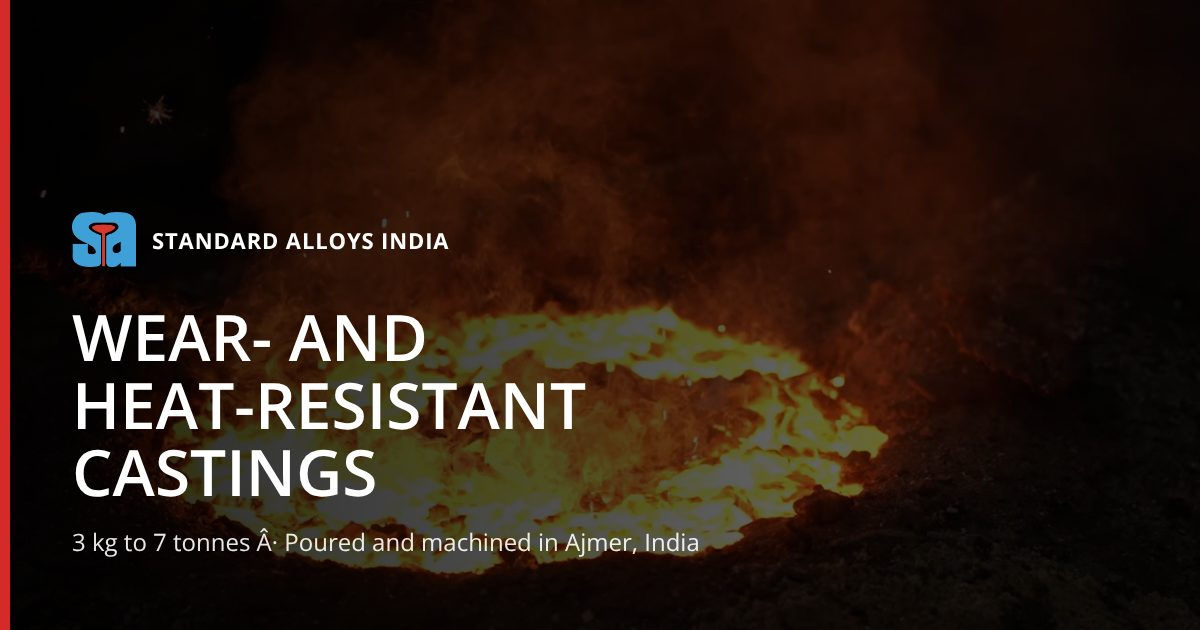
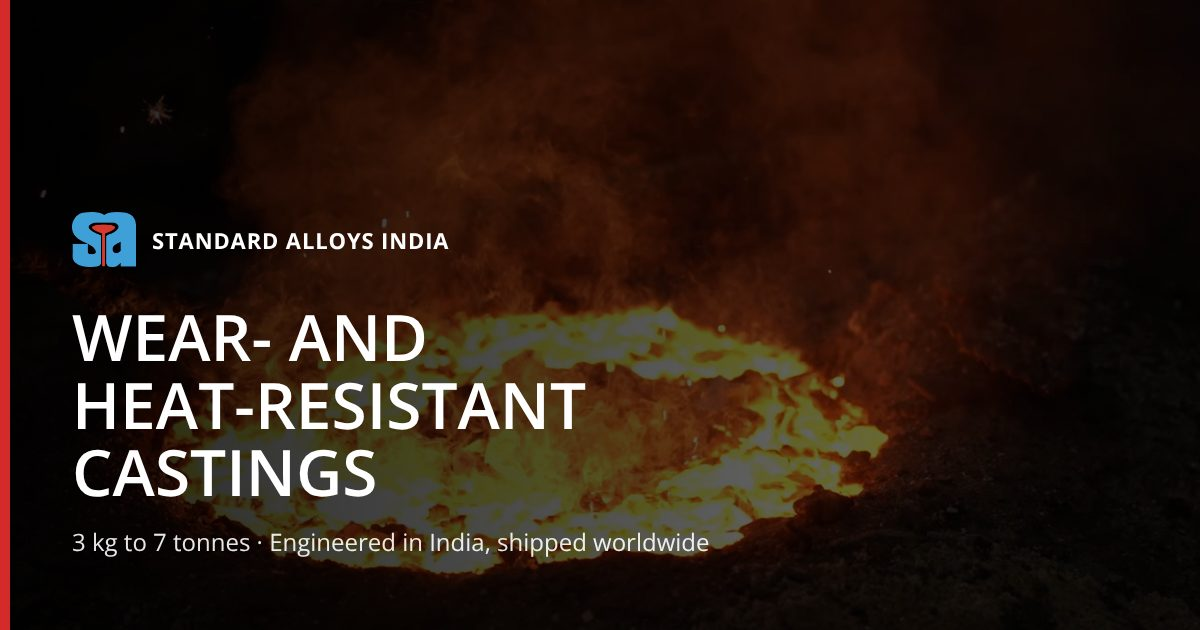
Global positioning: Ajmer kept to addresses and the founding story; India and worldwide elsewhere
Claude-Session: https://claude.ai/code/session_01Dpv3H5YAEdyyCRdrqzazAZ

Changed region(s): [[0.2158, 0.8444, 0.5858, 0.8746]]

diff --git a/standard-alloys/index.html b/standard-alloys/index.html
@@ -3,14 +3,14 @@
 <head>
 <meta charset="utf-8">
 <meta name="viewport" content="width=device-width, initial-scale=1">
-<title>Standard Alloys India · Wear- and heat-resistant castings, Ajmer</title>
-<meta name="description" content="Standard Alloys India: wear- and heat-resistant steel castings from 3 kg to 7 tonnes, poured and machined in Ajmer, India, and shipped to plants worldwide.">
+<title>Standard Alloys India · Wear- and heat-resistant steel castings</title>
+<meta name="description" content="Standard Alloys India: wear- and heat-resistant steel castings from 3 kg to 7 tonnes, engineered, cast and machined in India for plants worldwide.">
 <meta name="robots" content="noindex">
 <meta name="theme-color" content="#0d0d0e">
 <meta property="og:type" content="website">
 <meta property="og:site_name" content="Standard Alloys India">
-<meta property="og:title" content="Standard Alloys India · Wear- and heat-resistant castings, Ajmer">
-<meta property="og:description" content="Wear- and heat-resistant steel castings from 3 kg to 7 tonnes, poured and machined in Ajmer, India, and shipped to plants worldwide.">
+<meta property="og:title" content="Standard Alloys India · Wear- and heat-resistant steel castings">
+<meta property="og:description" content="Wear- and heat-resistant steel castings from 3 kg to 7 tonnes, engineered, cast and machined in India for plants worldwide.">
 <meta property="og:image" content="https://sorabbaheti-droid.github.io/sa-group-website/assets/og.jpg">
 <meta name="twitter:card" content="summary_large_image">
 <link rel="icon" href="../assets/favicon.png" type="image/png">
@@ -50,7 +50,7 @@
     <video src="../assets/media/quench.mp4" muted loop playsinline preload="none" aria-hidden="true"></video>
     <div class="say">
       <h1><span class="ln"><span>Wear- and heat-resistant castings</span></span><span class="ln sm"><span>for cement, mining, aggregate, steel and power</span></span></h1>
-      <p>Have a difficult casting problem? Send it to us, even without a drawing or a known grade. We engineer, cast, heat treat, machine and test it in Ajmer.</p>
+      <p>Have a difficult casting problem? Send it to us, even without a drawing or a known grade. We engineer, cast, heat treat, machine and test it, and ship it anywhere in the world.</p>
       <div class="hacts"><a class="btn" href="#quote">Get a quote</a><a class="btn ghost light" href="products/">Find your part</a></div>
     </div>
     <a class="down" href="#about" aria-label="Scroll to About"><svg viewBox="0 0 24 24" fill="none"><path d="M5 9l7 7 7-7" stroke="currentColor" stroke-width="2" stroke-linecap="round" stroke-linejoin="round"/></svg></a>
@@ -67,11 +67,11 @@
     <div class="wrap">
       <div class="narrow" data-r>
         <h2>Who we are</h2>
-        <p class="lit">Standard Alloys India began in 1991 as a fabrication shop in Ajmer and lit its first induction furnace in 1994. Today it is a specialist foundry for the parts that wear out first in cement, mining, aggregate, thermal power and steel plants, and for the equipment makers who build those machines.</p>
+        <p class="lit">Standard Alloys India began in 1991 as a fabrication shop in Rajasthan, India, and lit its first induction furnace in 1994. Today it is a specialist foundry for the parts that wear out first in cement, mining, aggregate, thermal power and steel plants, and for the equipment makers who build those machines.</p>
       </div>
       <div class="narrow" data-r>
         <h2>Up to seven tonnes in a single piece</h2>
-        <p class="lit">About 14,000 tonnes a year of installed capacity across our three facilities in Ajmer. Single castings run from 3 kg to 7,000 kg, with up to 10 tonnes of liquid metal in one pour.</p>
+        <p class="lit">About 14,000 tonnes a year of installed capacity across three foundry facilities. Single castings run from 3 kg to 7,000 kg, with up to 10 tonnes of liquid metal in one pour.</p>
       </div>
       <div class="narrow" data-r>
         <h2>In our own hands</h2>
@@ -96,7 +96,7 @@
       <figure><video src="../assets/media/ut.mp4" poster="../assets/media/ut.jpg" muted loop playsinline preload="none" aria-hidden="true" data-x="Ultrasonic testing"></video></figure>
     </div></div>
     <div class="wrap timeline">
-      <div data-r><b data-count="1991">1991</b><span>Starts as a fabrication shop in Ajmer</span></div>
+      <div data-r><b data-count="1991">1991</b><span>Starts as a fabrication shop in Rajasthan, India</span></div>
       <div data-r><b data-count="1994">1994</b><span>First induction furnace, the start of the foundry</span></div>
       <div data-r><b>Today</b><span>About 14,000 t a year of capacity, castings to 7 tonnes, shipped worldwide</span></div>
     </div>
@@ -105,7 +105,7 @@
 <!--why-->
 <section class="whysa" id="why" aria-labelledby="why-sa"><div class="wrap">
   <div class="sh" data-r><h2 id="why-sa">Why trust us with a critical casting</h2><p>Because the part, its grade and every step that decides its life are in one set of hands, and every heat is tested before it ships.</p></div>
-  <ul class="proof"><li data-r><b>35+ <small>years</small></b><span>Foundry experience in Ajmer, since 1991.</span></li><li data-r><b>~14,000 <small>t a year</small></b><span>Installed capacity across our three Ajmer facilities.</span></li><li data-r><b>3 kg–7 t</b><span>Single pieces, with up to 10 tonnes of metal in one pour.</span></li><li data-r><b>500+ <small>customers</small></b><span>Industrial customers in cement, mining, aggregate, power and steel.</span></li><li data-r><b>10,000+ <small>patterns</small></b><span>Already on file, so repeat orders start at moulding.</span></li><li data-r><b>End to end</b><span>Method, patterns, melting, moulding, heat treatment and machining in our own plants.</span></li><li data-r><b>UT · MPI · DPT</b><span>With spectrometer, microstructure, tensile, impact and hardness testing.</span></li><li data-r><b>Worldwide</b><span>Export packing, material certificates, dimensional and NDT reports.</span></li></ul>
+  <ul class="proof"><li data-r><b>35+ <small>years</small></b><span>Of foundry experience, since 1991.</span></li><li data-r><b>~14,000 <small>t a year</small></b><span>Installed capacity across three foundry facilities.</span></li><li data-r><b>3 kg–7 t</b><span>Single pieces, with up to 10 tonnes of metal in one pour.</span></li><li data-r><b>500+ <small>customers</small></b><span>Industrial customers in cement, mining, aggregate, power and steel.</span></li><li data-r><b>10,000+ <small>patterns</small></b><span>Already on file, so repeat orders start at moulding.</span></li><li data-r><b>End to end</b><span>Method, patterns, melting, moulding, heat treatment and machining in our own plants.</span></li><li data-r><b>UT · MPI · DPT</b><span>With spectrometer, microstructure, tensile, impact and hardness testing.</span></li><li data-r><b>Worldwide</b><span>Export packing, material certificates, dimensional and NDT reports.</span></li></ul>
 </div></section>
 <!--/why-->
 <!--chain-->
@@ -201,7 +201,7 @@
         <div><i><svg viewBox="0 0 24 24" fill="none" stroke="currentColor" stroke-width="1.6"><circle cx="12" cy="12" r="4"/><path d="M12 2v3M12 19v3M2 12h3M19 12h3M4.9 4.9l2.1 2.1M17 17l2.1 2.1M4.9 19.1L7 17M17 7l2.1-2.1"/></svg></i>630 kW rooftop solar</div>
       </div>
       <div class="factory">
-        <b>Ajmer factory</b>
+        <b>Works</b>
         <span>F-26B &amp; 27, Parbatpura Industrial Area, Ajmer 305002, Rajasthan, India</span>
         <span class="c"><a href="tel:+911452695110">+91 145 269 5110</a><a href="mailto:sales@standardalloysindia.com">sales@standardalloysindia.com</a></span>
       </div>
@@ -259,7 +259,7 @@
   <div class="wrap fgrid">
     <div class="fb">
       <a class="brand" href=""><img src="../assets/saipl-logo.png" alt="" width="34" height="30">STANDARD ALLOYS INDIA</a>
-      <p>Wear- and heat-resistant steel castings from 3 kg to 7 tonnes, poured and machined in Ajmer, India, and shipped worldwide.</p>
+      <p>Wear- and heat-resistant steel castings from 3 kg to 7 tonnes, engineered, cast and machined in India for plants worldwide.</p>
       <address>F-26B &amp; 27, Parbatpura Industrial Area<br>Ajmer 305002, Rajasthan, India</address>
       <p class="fc"><a href="tel:+911452695110">+91 145 269 5110</a><a href="mailto:sales@standardalloysindia.com">sales@standardalloysindia.com</a></p>
     </div>

diff --git a/standard-alloys/capabilities/index.html b/standard-alloys/capabilities/index.html
@@ -4,13 +4,13 @@
 <meta charset="utf-8">
 <meta name="viewport" content="width=device-width, initial-scale=1">
 <title>Capabilities · Standard Alloys India</title>
-<meta name="description" content="Engineering, pattern making, induction melting, no-bake moulding, heat treatment and machining in two foundry units in Ajmer.">
+<meta name="description" content="Engineering, pattern making, induction melting, no-bake moulding, heat treatment and machining, in our own plants.">
 <meta name="robots" content="noindex">
 <meta name="theme-color" content="#0d0d0e">
 <meta property="og:type" content="website">
 <meta property="og:site_name" content="Standard Alloys India">
 <meta property="og:title" content="Capabilities · Standard Alloys India">
-<meta property="og:description" content="Engineering, pattern making, induction melting, no-bake moulding, heat treatment and machining in two foundry units in Ajmer.">
+<meta property="og:description" content="Engineering, pattern making, induction melting, no-bake moulding, heat treatment and machining, in our own plants.">
 <meta property="og:image" content="https://sorabbaheti-droid.github.io/sa-group-website/assets/og.jpg">
 <meta name="twitter:card" content="summary_large_image">
 <link rel="icon" href="../../assets/favicon.png" type="image/png">
@@ -36,7 +36,7 @@
   <div class="in wrap">
     <p class="crumbs"><a href="../">Home</a> / Capabilities</p>
     <h1 id="h1"><span class="ln"><span>Everything that decides the life of a casting</span></span></h1>
-    <p>From the method to the machined part, in our own plants in Ajmer.</p>
+    <p>From the method to the machined part, in our own plants.</p>
   </div>
 </section><section class="mchain" aria-labelledby="mc-h"><div class="wrap">
   <div class="sh" data-r><h2 id="mc-h">One supplier. One manufacturing chain. One responsibility.</h2><p>From your problem to the finished part, every step that decides the life of a casting is ours to control, and ours to answer for.</p></div>
@@ -48,7 +48,7 @@
   <div class="capblocks"><article class="cblock" id="engineering" data-v="0"><span class="n">01</span><h2>Engineering and method</h2><p>Every new part starts with a method: gating, risering and feeding designed in-house, with casting simulation through a specialist partner for critical parts. Worn parts and samples are reverse-engineered when no drawing exists.</p><ul><li>Methoding and casting design</li><li>CAD and profile design</li><li>Reverse engineering from samples</li><li>Simulation with a specialist partner</li></ul></article><article class="cblock" id="patterns" data-v="1"><span class="n">02</span><h2>Pattern shop</h2><p>Patterns are made in-house in wood, polystyrene and aluminium, cut on a CNC router. More than 10,000 patterns are already on file, so repeat orders go straight to moulding.</p><ul><li>10,000+ patterns on file</li><li>Wood, polystyrene and aluminium</li><li>CNC router pattern making</li></ul></article><article class="cblock" id="melting" data-v="2"><span class="n">03</span><h2>Melting</h2><p>Induction melting in crucibles from 500 kg to 6 tonnes. A dual-track power supply brings up to 10 tonnes of liquid metal to a single pour, so heavy pieces are cast in one go.</p><ul><li>Crucibles of 500, 1,500, 3,000 and 6,000 kg</li><li>Up to 10 t liquid metal per pour</li><li>Spectrometer analysis on every heat</li></ul></article><article class="cblock" id="moulding" data-v="3"><span class="n">04</span><h2>Moulding</h2><p>Alphaset no-bake moulding gives strong, dimensionally stable moulds for pieces from 3 kg to 7,000 kg. Sand is mechanically reclaimed and reused.</p><ul><li>Alphaset mixers of 8 and 20 t/h</li><li>Mould pre-heater and shell core shooter</li><li>Sand reclamation of 6 and 12 t/h</li></ul></article><article class="cblock" id="heat-treatment" data-v="4"><span class="n">05</span><h2>Heat treatment</h2><p>Gas-fired box furnaces with water quench, and bogie-hearth furnaces with air and oil quench. Manganese steel goes from furnace to water in about 45 seconds.</p><ul><li>Two 10 t box furnaces, water quench</li><li>Two 12 t bogie-hearth furnaces, air and oil quench</li><li>Solution treatment, hardening and tempering</li></ul></article><article class="cblock" id="machining" data-v="5"><span class="n">06</span><h2>Fettling and machining</h2><p>Castings are fettled, proof-machined and finished to drawing on CNC and conventional vertical lathes, machining centres and a 6,500 mm special-purpose machine.</p><ul><li>Two CNC vertical lathes and a 1,350 mm VTL</li><li>Machining centres to 1,600 × 800 mm</li><li>Plano miller, lathes and radial drills</li></ul></article></div>
 </div></section>
 <section class="psec soft" aria-labelledby="u-h"><div class="wrap">
-  <div class="sh" data-r><h2 id="u-h">Standard Alloys India units</h2><p>Two of our three Ajmer facilities, pouring about 750 tonnes a month between them.</p></div>
+  <div class="sh" data-r><h2 id="u-h">Standard Alloys India units</h2><p>Two of our three facilities, pouring about 750 tonnes a month between them.</p></div>
   <div class="units"><article class="unit" data-r><h3>Unit 1</h3><p class="cap"><b>150</b> tonnes a month</p><p>Smaller and mid-size castings, where precision and short runs matter.</p><ul><li>Crucibles of 500 and 1,500 kg</li><li>8 t/h Alphaset mixer</li><li>Shell core shooter</li><li>6 t/h sand reclamation</li></ul></article><article class="unit" data-r><h3>Unit SP75</h3><p class="cap"><b>600</b> tonnes a month</p><p>Heavy castings to 7 tonnes, with heat treatment and machining on site.</p><ul><li>Crucibles of 3,000 and 6,000 kg; 10 t per pour</li><li>20 t/h Alphaset mixer and mould pre-heater</li><li>12 t/h sand reclamation</li><li>Box and bogie-hearth furnaces; machine shop</li></ul></article></div>
 </div></section>
 <section class="psec" aria-labelledby="f-h"><div class="wrap"><div class="sh" data-r><h2 id="f-h">In figures</h2></div>
@@ -66,7 +66,7 @@
   <div class="wrap fgrid">
     <div class="fb">
       <a class="brand" href="../"><img src="../../assets/saipl-logo.png" alt="" width="34" height="30">STANDARD ALLOYS INDIA</a>
-      <p>Wear- and heat-resistant steel castings from 3 kg to 7 tonnes, poured and machined in Ajmer, India, and shipped worldwide.</p>
+      <p>Wear- and heat-resistant steel castings from 3 kg to 7 tonnes, engineered, cast and machined in India for plants worldwide.</p>
       <address>F-26B &amp; 27, Parbatpura Industrial Area<br>Ajmer 305002, Rajasthan, India</address>
       <p class="fc"><a href="tel:+911452695110">+91 145 269 5110</a><a href="mailto:sales@standardalloysindia.com">sales@standardalloysindia.com</a></p>
     </div>

diff --git a/standard-alloys/about/index.html b/standard-alloys/about/index.html
@@ -4,13 +4,13 @@
 <meta charset="utf-8">
 <meta name="viewport" content="width=device-width, initial-scale=1">
 <title>About us · Standard Alloys India</title>
-<meta name="description" content="Standard Alloys India: a steel and iron foundry in Ajmer since 1991, making wear- and heat-resistant castings for plants worldwide.">
+<meta name="description" content="Standard Alloys India: a steel foundry since 1991, making wear- and heat-resistant castings for plants worldwide.">
 <meta name="robots" content="noindex">
 <meta name="theme-color" content="#0d0d0e">
 <meta property="og:type" content="website">
 <meta property="og:site_name" content="Standard Alloys India">
 <meta property="og:title" content="About us · Standard Alloys India">
-<meta property="og:description" content="Standard Alloys India: a steel and iron foundry in Ajmer since 1991, making wear- and heat-resistant castings for plants worldwide.">
+<meta property="og:description" content="Standard Alloys India: a steel foundry since 1991, making wear- and heat-resistant castings for plants worldwide.">
 <meta property="og:image" content="https://sorabbaheti-droid.github.io/sa-group-website/assets/og.jpg">
 <meta name="twitter:card" content="summary_large_image">
 <link rel="icon" href="../../assets/favicon.png" type="image/png">
@@ -36,12 +36,12 @@
   <div class="in wrap">
     <p class="crumbs"><a href="../">Home</a> / About</p>
     <h1 id="h1"><span class="ln"><span>Since 1991</span></span></h1>
-    <p>A fabrication shop in Ajmer that became a specialist foundry for the parts that wear out first.</p>
+    <p>A fabrication shop that became a specialist foundry for the parts that wear out first.</p>
   </div>
 </section>
-<section class="intro"><div class="wrap narrow" data-r><p class="lit">Standard Alloys India began in 1991 as a fabrication shop in Ajmer, Rajasthan, and lit its first induction furnace in 1994. Over three decades we have built a foundry around one idea: a casting should be specified for the duty it will meet. Today our three facilities in Ajmer have about 14,000 tonnes a year of installed capacity, pouring single pieces from 3 kg to 7 tonnes for more than 500 industrial customers, in plants anywhere in the world.</p></div></section>
+<section class="intro"><div class="wrap narrow" data-r><p class="lit">Standard Alloys India began in 1991 as a fabrication shop in Ajmer, Rajasthan, and lit its first induction furnace in 1994. Over three decades we have built a foundry around one idea: a casting should be specified for the duty it will meet. Today our three facilities have about 14,000 tonnes a year of installed capacity, pouring single pieces from 3 kg to 7 tonnes for more than 500 industrial customers, in plants anywhere in the world.</p></div></section>
 <section><div class="wrap timeline">
-<div data-r><b>1991</b><span>Starts as a fabrication shop in Ajmer</span></div>
+<div data-r><b>1991</b><span>Starts as a fabrication shop in Rajasthan, India</span></div>
 <div data-r><b>1994</b><span>First induction furnace, the start of the foundry</span></div>
 <div data-r><b>Today</b><span>About 14,000 t a year of capacity, castings to 7 tonnes, shipped worldwide</span></div></div></section>
 <section class="why"><div class="wrap"><div class="narrow" data-r><h2>How we work</h2></div>
@@ -67,7 +67,7 @@
   <div class="wrap fgrid">
     <div class="fb">
       <a class="brand" href="../"><img src="../../assets/saipl-logo.png" alt="" width="34" height="30">STANDARD ALLOYS INDIA</a>
-      <p>Wear- and heat-resistant steel castings from 3 kg to 7 tonnes, poured and machined in Ajmer, India, and shipped worldwide.</p>
+      <p>Wear- and heat-resistant steel castings from 3 kg to 7 tonnes, engineered, cast and machined in India for plants worldwide.</p>
       <address>F-26B &amp; 27, Parbatpura Industrial Area<br>Ajmer 305002, Rajasthan, India</address>
       <p class="fc"><a href="tel:+911452695110">+91 145 269 5110</a><a href="mailto:sales@standardalloysindia.com">sales@standardalloysindia.com</a></p>
     </div>

diff --git a/standard-alloys/products/spouts/index.html b/standard-alloys/products/spouts/index.html
@@ -4,13 +4,13 @@
 <meta charset="utf-8">
 <meta name="viewport" content="width=device-width, initial-scale=1">
 <title>Spouts: critical spares · Standard Alloys India</title>
-<meta name="description" content="A spout guides material into or out of a machine at a point of concentrated wear, and sometimes of high temperature. Cast in high chrome iron, heat-resistant steel, carbon or low-alloy steel by Standard Alloys India, Ajmer.">
+<meta name="description" content="A spout guides material into or out of a machine at a point of concentrated wear, and sometimes of high temperature. Cast in high chrome iron, heat-resistant steel, carbon or low-alloy steel by Standard Alloys India.">
 <meta name="robots" content="noindex">
 <meta name="theme-color" content="#0d0d0e">
 <meta property="og:type" content="website">
 <meta property="og:site_name" content="Standard Alloys India">
 <meta property="og:title" content="Spouts: critical spares · Standard Alloys India">
-<meta property="og:description" content="A spout guides material into or out of a machine at a point of concentrated wear, and sometimes of high temperature. Cast in high chrome iron, heat-resistant steel, carbon or low-alloy steel by Standard Alloys India, Ajmer.">
+<meta property="og:description" content="A spout guides material into or out of a machine at a point of concentrated wear, and sometimes of high temperature. Cast in high chrome iron, heat-resistant steel, carbon or low-alloy steel by Standard Alloys India.">
 <meta property="og:image" content="https://sorabbaheti-droid.github.io/sa-group-website/assets/og.jpg">
 <meta name="twitter:card" content="summary_large_image">
 <link rel="icon" href="../../../assets/favicon.png" type="image/png">
@@ -75,7 +75,7 @@
   <div class="wrap fgrid">
     <div class="fb">
       <a class="brand" href="../../"><img src="../../../assets/saipl-logo.png" alt="" width="34" height="30">STANDARD ALLOYS INDIA</a>
-      <p>Wear- and heat-resistant steel castings from 3 kg to 7 tonnes, poured and machined in Ajmer, India, and shipped worldwide.</p>
+      <p>Wear- and heat-resistant steel castings from 3 kg to 7 tonnes, engineered, cast and machined in India for plants worldwide.</p>
       <address>F-26B &amp; 27, Parbatpura Industrial Area<br>Ajmer 305002, Rajasthan, India</address>
       <p class="fc"><a href="tel:+911452695110">+91 145 269 5110</a><a href="mailto:sales@standardalloysindia.com">sales@standardalloysindia.com</a></p>
     </div>

diff --git a/standard-alloys/products/tip-castings-and-sectors/index.html b/standard-alloys/products/tip-castings-and-sectors/index.html
@@ -4,13 +4,13 @@
 <meta charset="utf-8">
 <meta name="viewport" content="width=device-width, initial-scale=1">
 <title>Tip castings and sectors: kiln and cooler · Standard Alloys India</title>
-<meta name="description" content="At the outlet, tip castings protect the end of the shell and hold the nose-ring refractory against clinker at well over 1,000 °C and hot secondary air. Cast in heat-resistant steel by Standard Alloys India, Ajmer.">
+<meta name="description" content="At the outlet, tip castings protect the end of the shell and hold the nose-ring refractory against clinker at well over 1,000 °C and hot secondary air. Cast in heat-resistant steel by Standard Alloys India.">
 <meta name="robots" content="noindex">
 <meta name="theme-color" content="#0d0d0e">
 <meta property="og:type" content="website">
 <meta property="og:site_name" content="Standard Alloys India">
 <meta property="og:title" content="Tip castings and sectors: kiln and cooler · Standard Alloys India">
-<meta property="og:description" content="At the outlet, tip castings protect the end of the shell and hold the nose-ring refractory against clinker at well over 1,000 °C and hot secondary air. Cast in heat-resistant steel by Standard Alloys India, Ajmer.">
+<meta property="og:description" content="At the outlet, tip castings protect the end of the shell and hold the nose-ring refractory against clinker at well over 1,000 °C and hot secondary air. Cast in heat-resistant steel by Standard Alloys India.">
 <meta property="og:image" content="https://sorabbaheti-droid.github.io/sa-group-website/assets/og.jpg">
 <meta name="twitter:card" content="summary_large_image">
 <link rel="icon" href="../../../assets/favicon.png" type="image/png">
@@ -75,7 +75,7 @@
   <div class="wrap fgrid">
     <div class="fb">
       <a class="brand" href="../../"><img src="../../../assets/saipl-logo.png" alt="" width="34" height="30">STANDARD ALLOYS INDIA</a>
-      <p>Wear- and heat-resistant steel castings from 3 kg to 7 tonnes, poured and machined in Ajmer, India, and shipped worldwide.</p>
+      <p>Wear- and heat-resistant steel castings from 3 kg to 7 tonnes, engineered, cast and machined in India for plants worldwide.</p>
       <address>F-26B &amp; 27, Parbatpura Industrial Area<br>Ajmer 305002, Rajasthan, India</address>
       <p class="fc"><a href="tel:+911452695110">+91 145 269 5110</a><a href="mailto:sales@standardalloysindia.com">sales@standardalloysindia.com</a></p>
     </div>

diff --git a/standard-alloys/products/conveying-elements/index.html b/standard-alloys/products/conveying-elements/index.html
@@ -4,13 +4,13 @@
 <meta charset="utf-8">
 <meta name="viewport" content="width=device-width, initial-scale=1">
 <title>Conveying elements: critical spares · Standard Alloys India</title>
-<meta name="description" content="Cast conveying elements carry load and wear in the hardest positions of a conveyor or feeder. Cast in carbon or low-alloy steel, cr-mo steel, heat-resistant steel by Standard Alloys India, Ajmer.">
+<meta name="description" content="Cast conveying elements carry load and wear in the hardest positions of a conveyor or feeder. Cast in carbon or low-alloy steel, cr-mo steel, heat-resistant steel by Standard Alloys India.">
 <meta name="robots" content="noindex">
 <meta name="theme-color" content="#0d0d0e">
 <meta property="og:type" content="website">
 <meta property="og:site_name" content="Standard Alloys India">
 <meta property="og:title" content="Conveying elements: critical spares · Standard Alloys India">
-<meta property="og:description" content="Cast conveying elements carry load and wear in the hardest positions of a conveyor or feeder. Cast in carbon or low-alloy steel, cr-mo steel, heat-resistant steel by Standard Alloys India, Ajmer.">
+<meta property="og:description" content="Cast conveying elements carry load and wear in the hardest positions of a conveyor or feeder. Cast in carbon or low-alloy steel, cr-mo steel, heat-resistant steel by Standard Alloys India.">
 <meta property="og:image" content="https://sorabbaheti-droid.github.io/sa-group-website/assets/og.jpg">
 <meta name="twitter:card" content="summary_large_image">
 <link rel="icon" href="../../../assets/favicon.png" type="image/png">
@@ -75,7 +75,7 @@
   <div class="wrap fgrid">
     <div class="fb">
       <a class="brand" href="../../"><img src="../../../assets/saipl-logo.png" alt="" width="34" height="30">STANDARD ALLOYS INDIA</a>
-      <p>Wear- and heat-resistant steel castings from 3 kg to 7 tonnes, poured and machined in Ajmer, India, and shipped worldwide.</p>
+      <p>Wear- and heat-resistant steel castings from 3 kg to 7 tonnes, engineered, cast and machined in India for plants worldwide.</p>
       <address>F-26B &amp; 27, Parbatpura Industrial Area<br>Ajmer 305002, Rajasthan, India</address>
       <p class="fc"><a href="tel:+911452695110">+91 145 269 5110</a><a href="mailto:sales@standardalloysindia.com">sales@standardalloysindia.com</a></p>
     </div>

diff --git a/standard-alloys/products/clamps-and-grinding-paths/index.html b/standard-alloys/products/clamps-and-grinding-paths/index.html
@@ -4,13 +4,13 @@
 <meta charset="utf-8">
 <meta name="viewport" content="width=device-width, initial-scale=1">
 <title>Clamps and grinding paths: mill parts · Standard Alloys India</title>
-<meta name="description" content="Clamps hold roller and table segments in place under very high load, and grinding paths complete the track. Cast in carbon or low-alloy steel, high chrome iron by Standard Alloys India, Ajmer.">
+<meta name="description" content="Clamps hold roller and table segments in place under very high load, and grinding paths complete the track. Cast in carbon or low-alloy steel, high chrome iron by Standard Alloys India.">
 <meta name="robots" content="noindex">
 <meta name="theme-color" content="#0d0d0e">
 <meta property="og:type" content="website">
 <meta property="og:site_name" content="Standard Alloys India">
 <meta property="og:title" content="Clamps and grinding paths: mill parts · Standard Alloys India">
-<meta property="og:description" content="Clamps hold roller and table segments in place under very high load, and grinding paths complete the track. Cast in carbon or low-alloy steel, high chrome iron by Standard Alloys India, Ajmer.">
+<meta property="og:description" content="Clamps hold roller and table segments in place under very high load, and grinding paths complete the track. Cast in carbon or low-alloy steel, high chrome iron by Standard Alloys India.">
 <meta property="og:image" content="https://sorabbaheti-droid.github.io/sa-group-website/assets/og.jpg">
 <meta name="twitter:card" content="summary_large_image">
 <link rel="icon" href="../../../assets/favicon.png" type="image/png">
@@ -75,7 +75,7 @@
   <div class="wrap fgrid">
     <div class="fb">
       <a class="brand" href="../../"><img src="../../../assets/saipl-logo.png" alt="" width="34" height="30">STANDARD ALLOYS INDIA</a>
-      <p>Wear- and heat-resistant steel castings from 3 kg to 7 tonnes, poured and machined in Ajmer, India, and shipped worldwide.</p>
+      <p>Wear- and heat-resistant steel castings from 3 kg to 7 tonnes, engineered, cast and machined in India for plants worldwide.</p>
       <address>F-26B &amp; 27, Parbatpura Industrial Area<br>Ajmer 305002, Rajasthan, India</address>
       <p class="fc"><a href="tel:+911452695110">+91 145 269 5110</a><a href="mailto:sales@standardalloysindia.com">sales@standardalloysindia.com</a></p>
     </div>

diff --git a/standard-alloys/products/diaphragms/index.html b/standard-alloys/products/diaphragms/index.html
@@ -4,13 +4,13 @@
 <meta charset="utf-8">
 <meta name="viewport" content="width=device-width, initial-scale=1">
 <title>Diaphragms: mill parts · Standard Alloys India</title>
-<meta name="description" content="The diaphragm separates the chambers, holds back the coarse media and controls how fast material moves through the mill. Cast in cr-mo steel, high chrome iron by Standard Alloys India, Ajmer.">
+<meta name="description" content="The diaphragm separates the chambers, holds back the coarse media and controls how fast material moves through the mill. Cast in cr-mo steel, high chrome iron by Standard Alloys India.">
 <meta name="robots" content="noindex">
 <meta name="theme-color" content="#0d0d0e">
 <meta property="og:type" content="website">
 <meta property="og:site_name" content="Standard Alloys India">
 <meta property="og:title" content="Diaphragms: mill parts · Standard Alloys India">
-<meta property="og:description" content="The diaphragm separates the chambers, holds back the coarse media and controls how fast material moves through the mill. Cast in cr-mo steel, high chrome iron by Standard Alloys India, Ajmer.">
+<meta property="og:description" content="The diaphragm separates the chambers, holds back the coarse media and controls how fast material moves through the mill. Cast in cr-mo steel, high chrome iron by Standard Alloys India.">
 <meta property="og:image" content="https://sorabbaheti-droid.github.io/sa-group-website/assets/og.jpg">
 <meta name="twitter:card" content="summary_large_image">
 <link rel="icon" href="../../../assets/favicon.png" type="image/png">
@@ -75,7 +75,7 @@
   <div class="wrap fgrid">
     <div class="fb">
       <a class="brand" href="../../"><img src="../../../assets/saipl-logo.png" alt="" width="34" height="30">STANDARD ALLOYS INDIA</a>
-      <p>Wear- and heat-resistant steel castings from 3 kg to 7 tonnes, poured and machined in Ajmer, India, and shipped worldwide.</p>
+      <p>Wear- and heat-resistant steel castings from 3 kg to 7 tonnes, engineered, cast and machined in India for plants worldwide.</p>
       <address>F-26B &amp; 27, Parbatpura Industrial Area<br>Ajmer 305002, Rajasthan, India</address>
       <p class="fc"><a href="tel:+911452695110">+91 145 269 5110</a><a href="mailto:sales@standardalloysindia.com">sales@standardalloysindia.com</a></p>
     </div>

diff --git a/standard-alloys/products/impact-plates/index.html b/standard-alloys/products/impact-plates/index.html
@@ -4,13 +4,13 @@
 <meta charset="utf-8">
 <meta name="viewport" content="width=device-width, initial-scale=1">
 <title>Impact plates: impact crushers · Standard Alloys India</title>
-<meta name="description" content="Impact plates take the rock thrown off the rotor and, with the blow bars, set the product size. Cast in manganese steel, cr-mo steel, high chrome iron by Standard Alloys India, Ajmer.">
+<meta name="description" content="Impact plates take the rock thrown off the rotor and, with the blow bars, set the product size. Cast in manganese steel, cr-mo steel, high chrome iron by Standard Alloys India.">
 <meta name="robots" content="noindex">
 <meta name="theme-color" content="#0d0d0e">
 <meta property="og:type" content="website">
 <meta property="og:site_name" content="Standard Alloys India">
 <meta property="og:title" content="Impact plates: impact crushers · Standard Alloys India">
-<meta property="og:description" content="Impact plates take the rock thrown off the rotor and, with the blow bars, set the product size. Cast in manganese steel, cr-mo steel, high chrome iron by Standard Alloys India, Ajmer.">
+<meta property="og:description" content="Impact plates take the rock thrown off the rotor and, with the blow bars, set the product size. Cast in manganese steel, cr-mo steel, high chrome iron by Standard Alloys India.">
 <meta property="og:image" content="https://sorabbaheti-droid.github.io/sa-group-website/assets/og.jpg">
 <meta name="twitter:card" content="summary_large_image">
 <link rel="icon" href="../../../assets/favicon.png" type="image/png">
@@ -75,7 +75,7 @@
   <div class="wrap fgrid">
     <div class="fb">
       <a class="brand" href="../../"><img src="../../../assets/saipl-logo.png" alt="" width="34" height="30">STANDARD ALLOYS INDIA</a>
-      <p>Wear- and heat-resistant steel castings from 3 kg to 7 tonnes, poured and machined in Ajmer, India, and shipped worldwide.</p>
+      <p>Wear- and heat-resistant steel castings from 3 kg to 7 tonnes, engineered, cast and machined in India for plants worldwide.</p>
       <address>F-26B &amp; 27, Parbatpura Industrial Area<br>Ajmer 305002, Rajasthan, India</address>
       <p class="fc"><a href="tel:+911452695110">+91 145 269 5110</a><a href="mailto:sales@standardalloysindia.com">sales@standardalloysindia.com</a></p>
     </div>

diff --git a/standard-alloys/products/apron-pans-and-sprockets/index.html b/standard-alloys/products/apron-pans-and-sprockets/index.html
@@ -4,13 +4,13 @@
 <meta charset="utf-8">
 <meta name="viewport" content="width=device-width, initial-scale=1">
 <title>Apron pans and sprockets: critical spares · Standard Alloys India</title>
-<meta name="description" content="Apron pans take the full drop of run-of-mine rock and carry it to the crusher. Cast in manganese steel, carbon or low-alloy steel by Standard Alloys India, Ajmer.">
+<meta name="description" content="Apron pans take the full drop of run-of-mine rock and carry it to the crusher. Cast in manganese steel, carbon or low-alloy steel by Standard Alloys India.">
 <meta name="robots" content="noindex">
 <meta name="theme-color" content="#0d0d0e">
 <meta property="og:type" content="website">
 <meta property="og:site_name" content="Standard Alloys India">
 <meta property="og:title" content="Apron pans and sprockets: critical spares · Standard Alloys India">
-<meta property="og:description" content="Apron pans take the full drop of run-of-mine rock and carry it to the crusher. Cast in manganese steel, carbon or low-alloy steel by Standard Alloys India, Ajmer.">
+<meta property="og:description" content="Apron pans take the full drop of run-of-mine rock and carry it to the crusher. Cast in manganese steel, carbon or low-alloy steel by Standard Alloys India.">
 <meta property="og:image" content="https://sorabbaheti-droid.github.io/sa-group-website/assets/og.jpg">
 <meta name="twitter:card" content="summary_large_image">
 <link rel="icon" href="../../../assets/favicon.png" type="image/png">
@@ -75,7 +75,7 @@
   <div class="wrap fgrid">
     <div class="fb">
       <a class="brand" href="../../"><img src="../../../assets/saipl-logo.png" alt="" width="34" height="30">STANDARD ALLOYS INDIA</a>
-      <p>Wear- and heat-resistant steel castings from 3 kg to 7 tonnes, poured and machined in Ajmer, India, and shipped worldwide.</p>
+      <p>Wear- and heat-resistant steel castings from 3 kg to 7 tonnes, engineered, cast and machined in India for plants worldwide.</p>
       <address>F-26B &amp; 27, Parbatpura Industrial Area<br>Ajmer 305002, Rajasthan, India</address>
       <p class="fc"><a href="tel:+911452695110">+91 145 269 5110</a><a href="mailto:sales@standardalloysindia.com">sales@standardalloysindia.com</a></p>
     </div>

diff --git a/standard-alloys/products/blow-bars/index.html b/standard-alloys/products/blow-bars/index.html
@@ -4,13 +4,13 @@
 <meta charset="utf-8">
 <meta name="viewport" content="width=device-width, initial-scale=1">
 <title>Blow bars: impact crushers · Standard Alloys India</title>
-<meta name="description" content="Blow bars strike the feed at rotor speed and throw it against the impact plates. Cast in manganese steel, cr-mo steel, high chrome iron by Standard Alloys India, Ajmer.">
+<meta name="description" content="Blow bars strike the feed at rotor speed and throw it against the impact plates. Cast in manganese steel, cr-mo steel, high chrome iron by Standard Alloys India.">
 <meta name="robots" content="noindex">
 <meta name="theme-color" content="#0d0d0e">
 <meta property="og:type" content="website">
 <meta property="og:site_name" content="Standard Alloys India">
 <meta property="og:title" content="Blow bars: impact crushers · Standard Alloys India">
-<meta property="og:description" content="Blow bars strike the feed at rotor speed and throw it against the impact plates. Cast in manganese steel, cr-mo steel, high chrome iron by Standard Alloys India, Ajmer.">
+<meta property="og:description" content="Blow bars strike the feed at rotor speed and throw it against the impact plates. Cast in manganese steel, cr-mo steel, high chrome iron by Standard Alloys India.">
 <meta property="og:image" content="https://sorabbaheti-droid.github.io/sa-group-website/assets/og.jpg">
 <meta name="twitter:card" content="summary_large_image">
 <link rel="icon" href="../../../assets/favicon.png" type="image/png">
@@ -77,7 +77,7 @@
   <div class="wrap fgrid">
     <div class="fb">
       <a class="brand" href="../../"><img src="../../../assets/saipl-logo.png" alt="" width="34" height="30">STANDARD ALLOYS INDIA</a>
-      <p>Wear- and heat-resistant steel castings from 3 kg to 7 tonnes, poured and machined in Ajmer, India, and shipped worldwide.</p>
+      <p>Wear- and heat-resistant steel castings from 3 kg to 7 tonnes, engineered, cast and machined in India for plants worldwide.</p>
       <address>F-26B &amp; 27, Parbatpura Industrial Area<br>Ajmer 305002, Rajasthan, India</address>
       <p class="fc"><a href="tel:+911452695110">+91 145 269 5110</a><a href="mailto:sales@standardalloysindia.com">sales@standardalloysindia.com</a></p>
     </div>

diff --git a/standard-alloys/products/feed-chute-liners/index.html b/standard-alloys/products/feed-chute-liners/index.html
@@ -4,13 +4,13 @@
 <meta charset="utf-8">
 <meta name="viewport" content="width=device-width, initial-scale=1">
 <title>Feed chute liners: critical spares · Standard Alloys India</title>
-<meta name="description" content="Chute liners protect the structure where material falls and slides. Cast in high chrome iron, ni-hard, cr-mo steel, manganese steel by Standard Alloys India, Ajmer.">
+<meta name="description" content="Chute liners protect the structure where material falls and slides. Cast in high chrome iron, ni-hard, cr-mo steel, manganese steel by Standard Alloys India.">
 <meta name="robots" content="noindex">
 <meta name="theme-color" content="#0d0d0e">
 <meta property="og:type" content="website">
 <meta property="og:site_name" content="Standard Alloys India">
 <meta property="og:title" content="Feed chute liners: critical spares · Standard Alloys India">
-<meta property="og:description" content="Chute liners protect the structure where material falls and slides. Cast in high chrome iron, ni-hard, cr-mo steel, manganese steel by Standard Alloys India, Ajmer.">
+<meta property="og:description" content="Chute liners protect the structure where material falls and slides. Cast in high chrome iron, ni-hard, cr-mo steel, manganese steel by Standard Alloys India.">
 <meta property="og:image" content="https://sorabbaheti-droid.github.io/sa-group-website/assets/og.jpg">
 <meta name="twitter:card" content="summary_large_image">
 <link rel="icon" href="../../../assets/favicon.png" type="image/png">
@@ -75,7 +75,7 @@
   <div class="wrap fgrid">
     <div class="fb">
       <a class="brand" href="../../"><img src="../../../assets/saipl-logo.png" alt="" width="34" height="30">STANDARD ALLOYS INDIA</a>
-      <p>Wear- and heat-resistant steel castings from 3 kg to 7 tonnes, poured and machined in Ajmer, India, and shipped worldwide.</p>
+      <p>Wear- and heat-resistant steel castings from 3 kg to 7 tonnes, engineered, cast and machined in India for plants worldwide.</p>
       <address>F-26B &amp; 27, Parbatpura Industrial Area<br>Ajmer 305002, Rajasthan, India</address>
       <p class="fc"><a href="tel:+911452695110">+91 145 269 5110</a><a href="mailto:sales@standardalloysindia.com">sales@standardalloysindia.com</a></p>
     </div>
